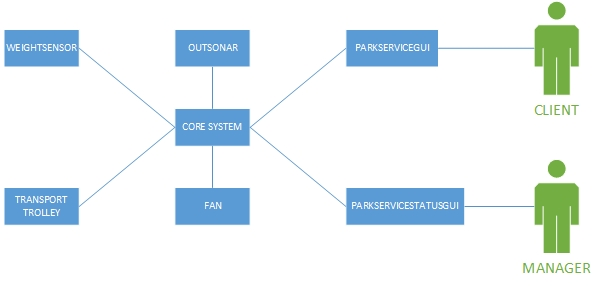
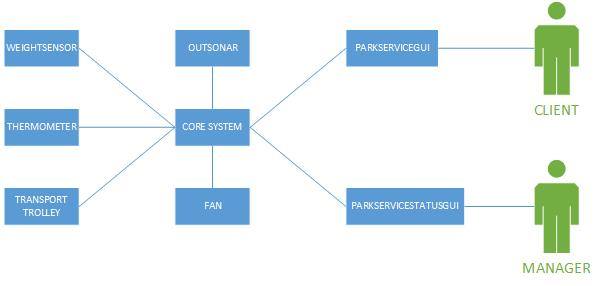
correzioni analisi

Changed region(s): [[0.0, 0.3636, 0.3, 0.5315], [0.69, 0.6993, 0.72, 0.7273]]

diff --git a/pre-sprint/userDocs/Automated Car-Parking.html b/pre-sprint/userDocs/Automated Car-Parking.html
@@ -267,9 +267,8 @@ div.imagedesc{
     <ul>
       <li><ks>software system</ks>: system of intercommunicating components based on a combination of hardware and software;</li>
       <li><ks>automation functions</ks>: set of functions or tasks which <kr>ParkingManagerService</kr> runs without any kind of employee's interaction or supervision;</li>
-      <li><ks>DDR robot</ks>: ;</li>
-      <li><ks>transport trolley</ks>: "forse si può includere in quella prima" ;</li>
-      <li><ks>home</ks>: shelter or starting point located in the map defined in <a>parkingMap.txt</a>;</li>
+      <li><ks>transport trolley</ks>: robot capable of receiving commands and transporting a car from a position to another;</li>
+      <li><ks>home</ks>: shelter or starting point located in the map defined in <a href="./parkingMap.txt">parkingMap.txt</a>;</li>
       <li><ks>weight sensor</ks>: weight transducer which converts an input mechanical force such as load, weight,
                                  tension, compression, or pressure into another physical variable, in this case,
                                  into an electrical output signal that can be measured and converted. <br>
@@ -278,8 +277,8 @@ div.imagedesc{
       <li><ks>outsonar</ks>: tool capable to detect object that cross its trajectory;</li>
       <li><ks>empty room</ks>: section of a building which is enclosed by walls and a floor. The room also does not contain
                               anything. It isn't filled or occupied by any physical object;</li>
-      <li><ks>INDOOR</ks>: fixed point of the map which marks where car can enter the system;</li>
-      <li><ks>OUTDOOR</ks>: fixed point of the map which marks where car can exit the system;</li>
+      <li><ks>INDOOR</ks>: fixed point of the map which marks where car can enter the parking;</li>
+      <li><ks>OUTDOOR</ks>: fixed point of the map which marks where car can exit the parking;</li>
       <li><ks>INDOOR-area</ks>: detailed area of the map where the weight sensor is placed;</li>
       <li><ks>OUTDOOR-area</ks>: detailed area of the map where the out sonar is placed;</li>
       <li><ks>weight</ks>:body(car)'s relative mass or the quantity of matter contained by it;</li>
@@ -296,15 +295,15 @@ div.imagedesc{
                   |X, X, X, X, X, X, X, X,
       </pre></li>
       <li><ks>fixed obstacles</ks>: walls which marks the limit of the <ks>room</ks>;</li>
-      <li><ks>critical situations</ks>:anomalous situations not foreseen in advance and managed in a general way;</li>
-      <li><ks>TOKENID</ks>: set of characters which identify in an unique way cars parked in the system and which is used in the car pick up phase;</li>
-      <li><ks>ParkServiceGUI</ks>: user interface which allows users to interact with the parking system and which shows the <ks>TOKENID</KS>
-                                  and buttons (<ks>CARENTER</ks>) which help the user to park and retrieve their car;</li>
+      <li><ks>critical situations</ks>: anomalous situations not foreseen in advance and managed in a general way;</li>
+      <li><ks>TOKENID</ks>: set of symbols which identify in an unique way cars parked in the system and which is used in the car pick up phase;</li>
+      <li><ks>ParkServiceGUI</ks>: user interface which allows users to interact with the parking system and which shows the <ks>SLOTNUM</ks> and <ks>TOKENID</ks>
+                                  and buttons  which help the user to park and retrieve their car;</li>
       <li><ks>ParkServiceStatusGUI</ks>: user interface which allows managers to interact with the parking system
                                         and which shows the <ks>current state</ks> of the parking area, including the value <ka>TA</ka>
                                         of the temperature, the state of the <ks>fan</ks> and the state of the <ks>transport trolley</ks>;</li>
-      <li><ks>SLOTNUM</ks>: integer that represents the number of free <ks>parking-slots</ks>;</li>
-      <li><ks>current state</ks>:current situation of the entire system. It includes <ks>parking-slots</ks> situation,
+      <li><ks>SLOTNUM</ks>: integer that represents <ks>parking-slots</ks>;</li>
+      <li><ks>current state</ks>: current situation of the entire system. It includes <ks>parking-slots</ks> situation,
                                  temperature inside the system, state of the fan and state of the <ks>ParkingServiceGUI</ks>.
                                  It can be seen by the manager of the system through the <ks>ParkingServiceStatusGUI</ks>;</li>
       <li><ks>behavior</ks>: status of <ks>transport trolley</ks>:
@@ -318,24 +317,16 @@ div.imagedesc{
                          when the <ks>OUTDOOR-area</ks> has not been cleaned within the <ks>DTFREE</ks> interval of time;</li>
       <li><ks>proper notice</ks>: warning sent to the user through the <ks>ParkServiceGUI</ks> if the <ks>INDOOR-area</ks> is already
                                 engaged by a car;</li>
-      <li><ks>CARSLOTNUM</ks>: integer which defines a parking slot;</li>
     </ul>
   </div>
   <div>
     Regarding action or verbs:
     <ul>
-      <!-- <li><ks>enter</ks>:the car initially outside the system, moves into the <ks>INDOOR-area</ks> and places itself on the <ks>weigth sensor</ks>;</li>
-      <li><ks>exit</ks>:the car initially inside the system, moves into the <ks>OUTDOOR-area</ks> and places itself in front of <ks>outsonar</ks>,
-                        before exiting the system;</li>
-      -->
       <li><ks>equipped</ks>: the system is supplied with the necessary items for a particular purpose;</li>
       <li><ks>notify/inform</ks>: the interaction between the software system and the user and vice versa;</li>
       <li><ks>walk</ks>: the <ks>transport trolley</ks> moves in order to complete its task;</li>
       <li><ks>take over</ks>: the <ks>transport trolley</ks> picks up a car and carries it inside the map;</li>
       <li><ks>observe</ks>: the <kr>ParkingManager</kr> monitors the <ks>current state</ks> of the system;</li>
-      <!--
-      <li><ks>stop</ks>:while the <ks>transport trolley</ks> is working on a task, the system manager can stop its work when TA > TMAX by using the <ks>ParkingServiceStatusGUI</ks> and transitate its status in <kr>stopped</kr>;</li>
-    -->
       <li><ks>clean</ks>:the <ks>OUTDOOR-area</ks> is free;</li>
     </ul>
   </div>
@@ -348,10 +339,9 @@ div.imagedesc{
       <tbody>
         <tr>
           <td style="width:70%">
-           <!-- abbellire con css -->
            A client interacts with the ParkServiceGUI in order to park its car. The system, then checks if the INDOOR-area is free, and in that case
-           the system replies to the customer with a number that identifies a free park-slot (SLOTNUMBER). At that time, if SLOTNUM > 0, the client enters
-           the car and then the ParkingManagerService makes the transport trolley pick up the car <b>(1)</b> and moves it to the selected parking-slot <b>(2)</b>. <br>
+           the system replies to him with a number that identifies a free park-slot (SLOTNUM). At that time, if SLOTNUM > 0, the client receives a receipt with the
+           TOKENID, enters the car and then the ParkingManagerService makes the transport trolley pick up the car <b>(1)</b> and moves it to the selected parking-slot <b>(2)</b>. <br>
            When the client wants his car back, he interacts again with the ParkServiceGUI by requesting a pick up of his car
            using the TOKENID previously received. At this time, the transport trolley carries the selected car from its parking-slot to the
            outdoor-area <b>(3)</b>. Finally, the client takes the car and frees the outdoor-area.
@@ -409,7 +399,7 @@ div.imagedesc{
   From their interaction arises the problem of evaluating the technologies to be used for the transmission of information in the best possible way.
   Another problem can be found in the management of the transport trolley as a core feature of the parking system.
   Given the complexity of the two problems, they are going to be treated separately according to a "divide-et-impera" approach. <br>
-  These operations will be described in a first phase of analysis using the meta-modeling language qak. <br>
+  These operations will be described in a first phase of analysis using the meta-modelling language qak. <br>
 </div class="remark">
   The following legend will be used to represent the components in the problem analysis. <br><br>
   <img src="IMG/legenda.png" alt="LEGEND" width="15%">
@@ -442,41 +432,19 @@ div.imagedesc{
     <li>move the client's car from the indoor-area to the parking slot assigned by the central system;</li>
     <li>move the client's car from the given parking slot to the outdoot-area.</li>
   </ul>
-  At any time, Parkinging manager is allowed to stop these tasks. Its aim leads to both active and passive behavior. <br>
-  The Transport Trolley can be developed as an abstract class called trasportTrolleyActor which extends <a>PathExecutor.kt</a> described <a>here</a>.
-  This implementation allows trasportTrolleyActor to move along a given path (e.g. "wlr"). This path is planned by the core system.<br>
-  The two entities exchange messages following a synchronous communication so that the central system receives a feedback
+  At any time, parking manager is allowed to stop these tasks. Its aim leads to both active and passive behavior. <br>
+  The Transport Trolley can be modelled as an actor and its movement will be decided by another entity.
+  These two entities exchange messages following a synchronous communication so that the central system receives a feedback
   from the trasport trolley when it asks for an execution.
-  <!-- inserire immagine trolley-->
-  <!-- inserire messaggi -->
-  <!--Il compito del trasport trolley si limita a dover trasportare le auto dall'indoor-area al parcheggio indicato
-    dal sistema e in maniera analoga a trasportare l'auto dal parcheggio indicato all'outdoor-area, salvo indicazioni
-    dal parking manager. <br>
-
-    Dall'analisi dei requisiti, si deduce dunque che il trasport trolley debba avere un comportamento attivo e uno passivo.
-    Le specifiche del robot utilizzato sono descritte nel seguente documento. **APPROFONDIRE**-->
-    <!-- 19/08/2021
-    Il transport trolley può essere modallato come una specializzazione della classe astratta <a>BasicStepRobotActor.kt</a>.
-    Tale specializzazione prende il nome di trasportTrolleyActor.
-    <br>
-    The class <a>PathExecutor.kt</a> extends ActorBasicKotlin.kt with the aim of
-    sending commands to the BasicStepRobotActor.kt, so to moving the robot along a given path (e.g. "wwl").
-
-     https://htmlpreview.github.io/?https://github.com/anatali/issLab2021/blob/master/it.unibo.kotlinIntro/userDocs/FirstActorRobot2021.html
-    Valutare comunicazione TCP / SpringBoot
-     https://htmlpreview.github.io/?https://github.com/anatali/issLab2021/blob/master/it.unibo.cautiousExplorer/userDocs/BasicStepRobotActorUsage.html#distrSys
-    Il path da eseguire sarà valutato dalla business logic e descritto successivamente basadosi sull <a>link</a>
-    https://htmlpreview.github.io/?https://github.com/anatali/issLab2021/blob/master/it.unibo.cautiousExplorer/userDocs/LabPlanner2021.html
-    ß-->
 </div>
-<img src="/Users/criss/Desktop/UNI/PROGETTO/userDocs/IMG/TRANSPORT TROLLEY.jpg" alt="TRANSPORTROLLEY" width="40%">
+<img src="IMG/TRANSPORT TROLLEY.jpg" alt="TRANSPORTROLLEY" width="40%">
 <h3> Fan </h3>
 <div class="remark">
 The fan is modeled as an actor. It does not own or produce any valuable information by itself but it is a physical component controlled by the system.
 It's status can be changed through two messages "turn_on" and "turn_off" to turn on and to turn off respectively the fan. As a result of the command the fan can
-only be in two states, one is "on" which indicates that the fun is working while the second one "off" suggests that the fun is not activated.
+only be in two states, one is "on" which indicates that the fun is working while the second one "off" suggests that the fun is not working.
 The fan should also return in response the new current state in order to update the manager GUI.
-This feature can also be used, in case of electric disguise or general failure of the central system the fan must respond with its current
+This feature can also be used in case of electric disguise or general failure of the central system. The fan must respond with its current
 state whenever the central system requests its state of activation.
 </div> <br>
 <table cellpadding="20%" style="border: 0px solid transparent;width:98%;" style="width:98%">
@@ -545,7 +513,7 @@ state whenever the central system requests its state of activation.
   <div class="remark">
     Data from the out-sonar is used when a client starts the acceptOUT procedure and to trigger the alarm procedure
     if it detects a car in the OUTDOOR-AREA for more than DFTREE time. <br>
-    In order to identify those situation, the out-sonar has to emit emit events every time the distance measured by the
+    In order to identify those situation, the out-sonar has to emit events every time the distance measured by the
     sensor change. Moreover, messages sent by the out-sonar contains the distance misured and the relative timestamp. <br>
   </div>
   <table cellpadding="20%" style="border: 0px solid transparent;width:98%;" style="width:98%">
@@ -643,8 +611,9 @@ state whenever the central system requests its state of activation.
     and an overview on the parking slots. Another key functionality that the manager interface must integrate is the ability
     to receive and show in a proper way the alarm signal. This requirements can rely on:
     <ul>
-      <li>websocket protocol</li>
+      <li>request/response mechanism</li>
       <li>polling mechanism</li>
+      <li>event mechanism</li>
     </ul>
     However, the polling mechanism would affect system performance and resources. <br>
     The system behavior results in two type of interaction between the ParkServiceStatusGUI and the core system:
@@ -655,13 +624,13 @@ state whenever the central system requests its state of activation.
       reply the system with an ack about the Information received. That mechanism is fundamental
       especially when the alarm is triggered.--></li>
     </ul>
-    Below a deatil list of what the GUI must show:
+    Below a deatiled list of what the GUI must show:
     <ul>
       <li>status of the fan (<b>on/off</b>);</li>
       <li>status of the transport trolley (<b>idle/working/stopped</b>);</li>
       <li>temperature of the room (expressed in celsius degrees);</li>
       <li>status of the INDOOR-area (through weightsensor data);</li>
-      <li>status of the OUTDOOR-area (through ousonar data);</li>
+      <li>status of the OUTDOOR-area (through outsonar data);</li>
     </ul>
     In addiction, the GUI should contain a series of button to interact with:
     <ul>
@@ -734,7 +703,7 @@ state whenever the central system requests its state of activation.
 <div id="problem_analysis_parking_service_GUI">
   <h3> ParkServiceGUI </h3>
   <div class="remark">
-  Client's interface must be able to send commands to the core system in order to park his car and receive a
+  Client's interface must be able to send commands to the core system in order to park client's car, receive a
   receipt and to pick up the car using the same receipt. These two phases consist in:
   <ul>
     <li><b>acceptIN</b>: clients manifest their will to park their car. If at least a park slot is available, the system replies with an SLOTNUM which identifies the
@@ -755,8 +724,6 @@ state whenever the central system requests its state of activation.
     <li><b>WebSocket</b></li>
     <li><b>CoAP</b></lI>
   </ul>
-  <!-- pro e contro dei due protocolli -->
-
   </div>
   <table cellpadding="20%" style="border: 0px solid transparent;width:98%;" style="width:98%">
     <tr>
@@ -831,11 +798,7 @@ state whenever the central system requests its state of activation.
     The core system is the most important component of the entire software system because it contains the business logic level.
     Acting like the system 'hub', it manages various types of information coming from external sensors, it receives messages or
     commands from clients or the manager and it controls the transport trolley and the fan.
-    For its complexity and by following a 'divide-et-impera' approach it could be divided in three different actors:
-    <!--Il core system è il compontente principale dell'intero sistema software dato che contiene la business logic. Questo comporta la gestione
-    delle informazioni dei sensori, delle richieste da parte dei clienti e del manager e il controllo del trasport trolley e della fan fungendo in questo modo da
-    "hub" del sistema. <br>
-    Visto la complessità dei compiti che deve svolgere esso si suddivide in tre attori seguendo nuovamente un approccio "divide-et-impera":-->
+    For its complexity and by following a 'divide-et-impera' approach and single responsability priciple, the core system could be divided in four different actors:
   </div>
   <center><img src="IMG/CORESYSTEM.png" alt="CoreSystem" width="35%"></center>
   <div class="remark">
@@ -851,7 +814,7 @@ state whenever the central system requests its state of activation.
       </li>
       <li><b>actuators controller actor</b>: it interacts with components which are able to receive commands. In particular:
         <ul>
-          <li>simply ridirects commands from the business logic to the fan;</li>
+          <li>simply redirects commands from the business logic to the fan;</li>
           <li>given initial and final coordinates from the business logic, generates the best path for the transport trolley to follow;</li>
           <li>allows future integration with new active components much easier.</li>
         </ul>
@@ -876,7 +839,7 @@ state whenever the central system requests its state of activation.
 <div id="system_weakness">
   <h4>System weaknesses</h4>
   <div class="remark">
-    They system may soffer some rare case studies:
+    The system may soffer some rare case studies:
     <ul>
       <li>If the parking manager isn't well trained about system functionalities he may create a bottleneck of requests simply stopping transport trolley tasks
         through his GUI. Infact, the system isn't developed in a way that can't stop wrong decision by the parking manager;</li>
@@ -945,66 +908,55 @@ The model of the system can be seen <a href="https://github.com/enriLoniterp/iss
         <th>ID</th>
         <th>PRIORITY</th>
         <th>ITEM</th>
-        <th>THEME</th>
       </tr>
       <tr>
         <td><b>1</b></td>
         <td>HIGH</td>
         <td>System processes car deposit requests</td>
-        <td>key functionalities</td>
       </tr>
       <tr>
         <td><b>2</b></td>
         <td>HIGH</td>
         <td>System processes car pick-up requests</td>
-        <td>key functionalities</td>
       </tr>
       <tr>
         <td><b>3</b></td>
         <td>HIGH</td>
         <td>System manages data from sensors</td>
-        <td>key functionalities</td>
       </tr>
       <tr>
         <td><b>4</b></td>
         <td>HIGH</td>
         <td>System manages transport trolley</td>
-        <td>key functionalities</td>
       </tr>
         <td><b>5</b></td>
         <td>MEDIUM</td>
         <td>System satisfies manager's start and stop fan requests</td>
-        <td>manager interaction</td>
       </tr>
       <tr>
         <td><b>6</b></td>
         <td>MEDIUM</td>
         <td>System satisfies manager's start and stop trolley requests</td>
-        <td>manager interaction</td>
       </tr>
       <tr>
         <td><b>7</b></td>
         <td>MEDIUM</td>
         <td>System maintains an updated version of the system status</td>
-        <td>system status</td>
       </tr>
       <tr>
         <td><b>8</b></td>
         <td>MEDIUM</td>
         <td>System recognizes critical OUTDOOR-area situation and generates an alarm for the manager</td>
-        <td>system status & manager interaction</td>
       </tr>
       <tr>
         <td><b>9</b></td>
         <td>LOW</td>
         <td>System asks the client to pick up his car due a DTFREE timeout</td>
-        <td>...</td>
       </tr>
       <tr>
         <td><b>10</b></td>
         <td>LOW</td>
         <td>System manages fan automatically</td>
-        <td>...</td>
       </tr>
     </table>
     </center>
